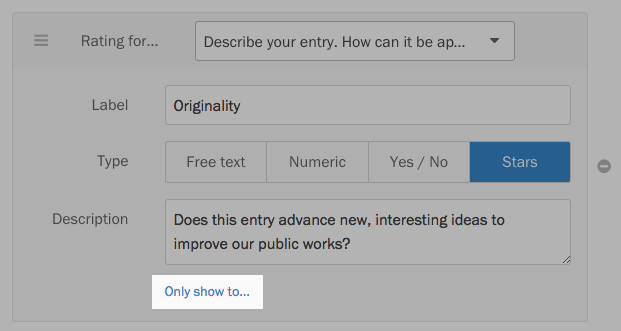
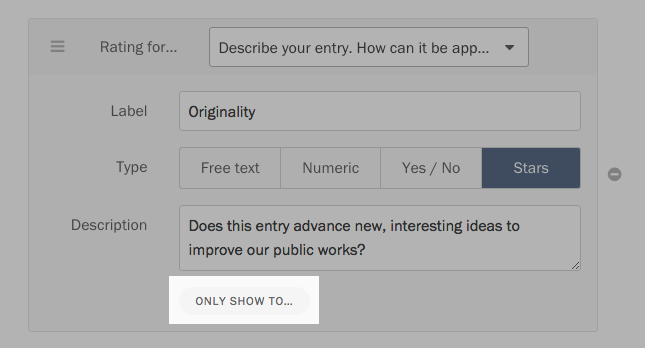
Add "Only show to..." FAQ to "Setting up ratings" & change teams feature limit from "50 users" to "20 users" (#311)

diff --git a/contents/articles/screendoor/collaboration/teams.md b/contents/articles/screendoor/collaboration/teams.md
@@ -7,7 +7,7 @@ app_pages:
 ---
 
 <div class='alert'>
-    **Note:** Project teams are only available to customers with a "50 users" plan or higher.
+    **Note:** Project teams are only available to customers with a "20 users" plan or higher.
 </div>
 
 If you're a large organization using Screendoor, chances are you're delegating dozens of people from different departments to help evaluate your incoming responses. Screendoor's teams help you organize your collaborators and delegate work more efficiently.
@@ -38,6 +38,6 @@ You can assign responses to teams you have created. Let's say you have 60 collea
 
 If you place someone in a team accidentally and then assign responses to that team, it's still an easy mistake to fix. When you change the team someone is a part of, the responses they're assigned to change as well.
 
-You can also [add rating fields](/articles/screendoor/evaluation/setting_up_ratings.html) that can only be seen by a single team. When adding a rating, click the "Show to&hellip;" link, and select a team under the dropdown that appears.
+You can also [add rating fields](/articles/screendoor/evaluation/setting_up_ratings.html) that can only be seen by a single team. When adding a rating, click the "Only show to&hellip;" button, and select a team under the dropdown that appears.
 
-![Assigning a rating to a team.](../images/teams_4.png)
+![Assigning a rating field to a team.](../images/teams_4.png)

diff --git a/contents/articles/screendoor/evaluation/setting_up_ratings.md b/contents/articles/screendoor/evaluation/setting_up_ratings.md
@@ -100,3 +100,11 @@ If you have a numeric rating in your project, press the "Add a custom scale" but
 When reviewers reach your numeric rating, they will see your custom description next to each number.
 
 ![Viewing a rating with a custom scale.](../images/rating_setup_11.png)
+
+---
+
+## F.A.Q.
+
+### Can I choose to show a rating field to only a subset of reviewers?
+
+If your organization is on the "20 users" plan or higher, yes! You can group these reviewers into a team, and create a rating field that can be seen only by them. [Learn more about teams on Screendoor.](/articles/screendoor/collaboration/teams.html)

diff --git a/contents/articles/screendoor/responses/assigning_a_response.md b/contents/articles/screendoor/responses/assigning_a_response.md
@@ -21,4 +21,4 @@ You can also assign a response while you are reading it. First, click on a respo
 
 ![Assigning a single response.](../images/assign_3.png)
 
-If your organization is on the "50 users" plan or above, you can also assign responses to [teams](/articles/screendoor/collaboration/teams.html).
+If your organization is on the "20 users" plan or above, you can also assign responses to [teams](/articles/screendoor/collaboration/teams.html).

diff --git a/contents/articles/screendoor/collaboration/collaborators.md b/contents/articles/screendoor/collaboration/collaborators.md
@@ -59,4 +59,4 @@ To remove a collaborator, check the box next to their name, and click the Remove
 ## F.A.Q.
 
 ### Can I organize collaborators into groups?
-If your team is on the "50 users" plan or has an enterprise license, yes! [Learn more about teams on Screendoor.](teams.html)
+If your team is on the "20 users" plan or has an enterprise license, yes! [Learn more about teams on Screendoor.](teams.html)
